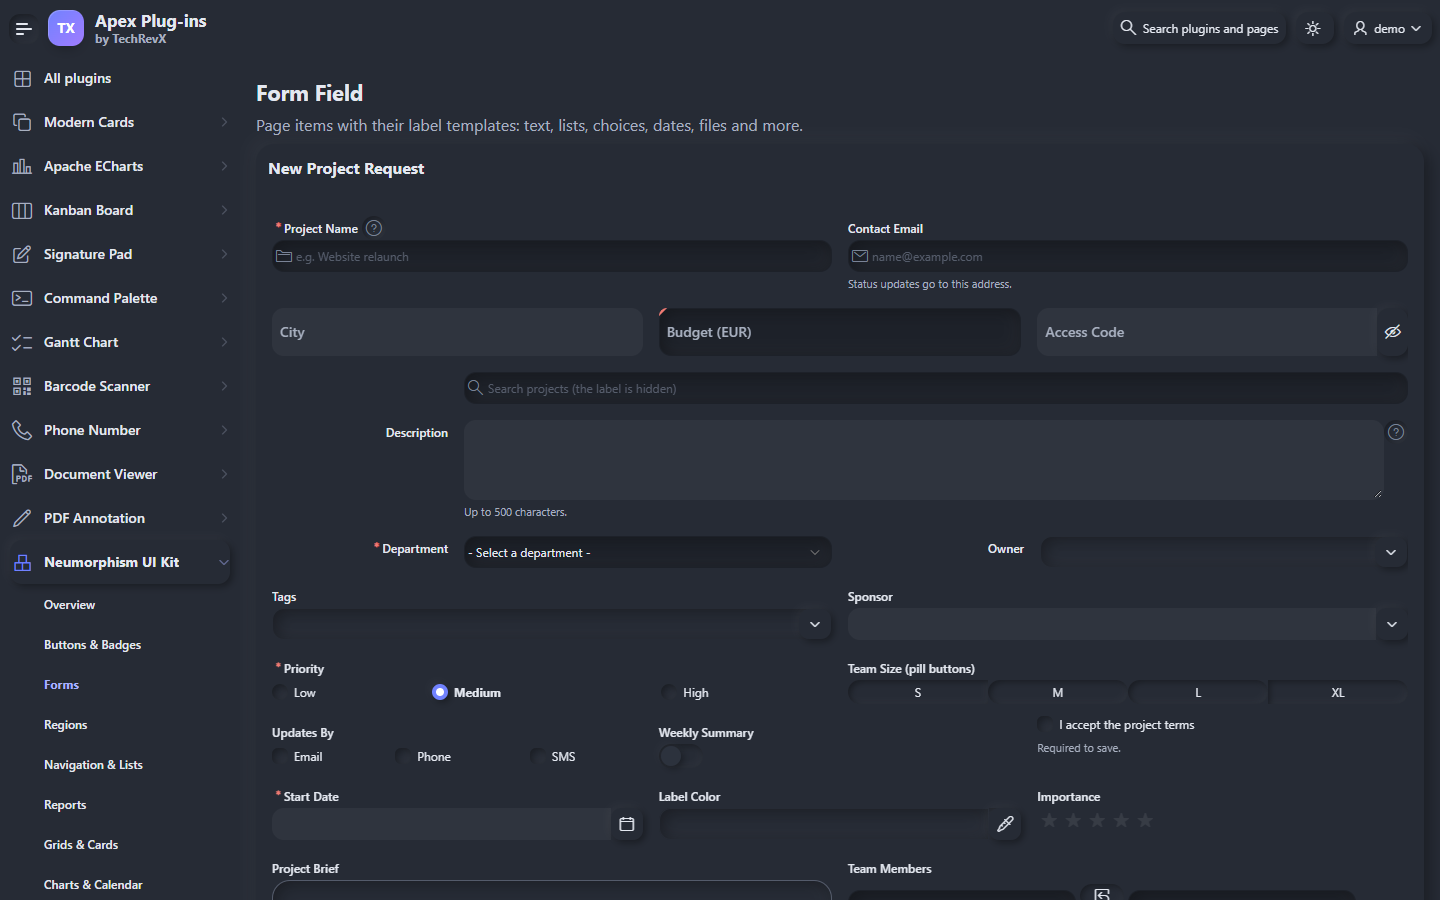
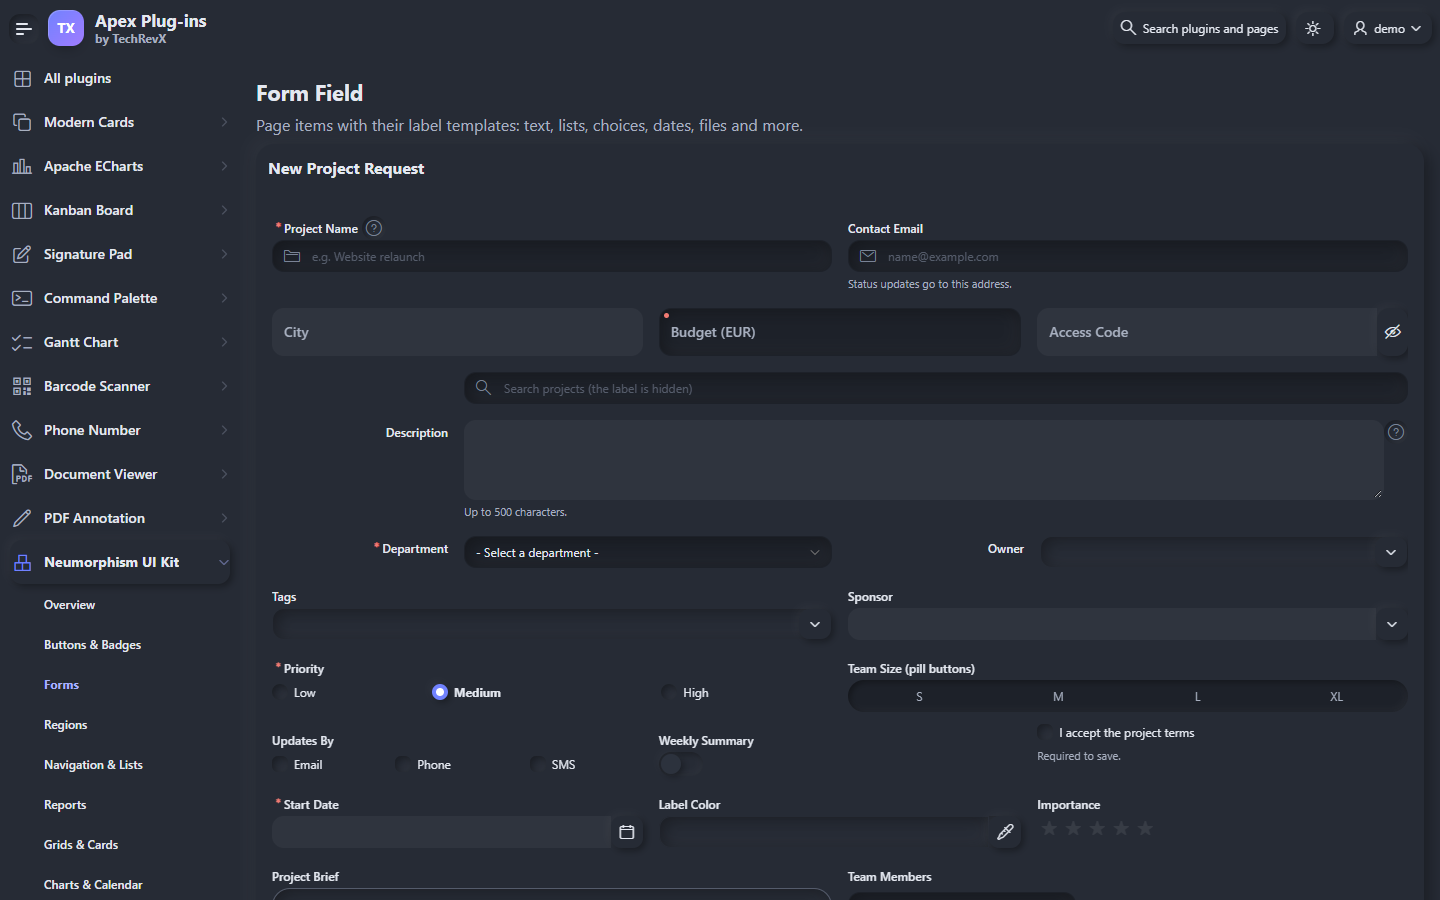
1.1.0: soft neutral white palette, softer grids, readable highlights

diff --git a/neumorphism.css b/neumorphism.css
@@ -1,5 +1,5 @@
 /*!
- * Neumorphism UI Kit for Oracle APEX Universal Theme 1.0.11 (built and tested with APEX 26.2, theme style Iris)
+ * Neumorphism UI Kit for Oracle APEX Universal Theme 1.1.0 (built and tested with APEX 26.2, theme style Iris)
  * TechRevX, MIT License - https://github.com/aamirkhanz/apex-neumorphism-ui-kit
  *
  * Soft UI: surfaces share the page color and stand out by a light highlight top left and a soft shadow bottom right
@@ -26,14 +26,14 @@
 :root,
 html.nm-light {
   color-scheme: light;
-  --nm-bg: #e3e8ef;                 /* page and surfaces */
-  --nm-well: #dde3eb;               /* pressed-in fields: a touch darker, so they read as fields */
-  --nm-surface-2: #eaeef4;          /* popups, menus, dialogs: a step lighter */
-  --nm-text: #283041;
-  --nm-text-2: #566176;
-  --nm-text-3: #7d8799;
-  --nm-line: rgba(40, 48, 65, .1);
-  --nm-hover: rgba(40, 48, 65, .045);
+  --nm-bg: #e3e3e3;                 /* page and surfaces: a soft, neutral white */
+  --nm-well: #dcdcdc;               /* pressed-in fields: a touch darker, so they read as fields */
+  --nm-surface-2: #e9e9e9;          /* popups, menus, dialogs: a step lighter, never pure white */
+  --nm-text: #2b2d31;
+  --nm-text-2: #5a5d63;
+  --nm-text-3: #83868c;
+  --nm-line: rgba(0, 0, 0, .08);
+  --nm-hover: rgba(0, 0, 0, .04);
 
   --nm-accent: #5468ee;
   --nm-accent-2: #8058f2;           /* end of the accent gradient */
@@ -49,8 +49,8 @@ html.nm-light {
   --nm-info: #2a6fc0;     --nm-info-tint: rgba(42, 111, 192, .12);
 
   /* depth: the two shadow colors and the distance */
-  --nm-shadow-light: rgba(255, 255, 255, .75);
-  --nm-shadow-dark: rgba(155, 168, 190, .4);
+  --nm-shadow-light: rgba(255, 255, 255, .7);
+  --nm-shadow-dark: rgba(160, 160, 160, .45);
   --nm-depth: 5px;
   --nm-blur: calc(var(--nm-depth) * 3);
 
@@ -66,7 +66,7 @@ html.nm-light {
               inset calc(var(--nm-depth) * -.6) calc(var(--nm-depth) * -.6) var(--nm-blur) var(--nm-shadow-light);
   --nm-inset-sm: inset 2px 2px 6px var(--nm-shadow-dark), inset -2px -2px 6px var(--nm-shadow-light);
   /* things that float above the page (dialogs, menus, popups): a soft drop shadow, no highlight halo */
-  --nm-float: 0 16px 40px -14px rgba(30, 40, 60, .2), 0 2px 8px -2px rgba(30, 40, 60, .07);
+  --nm-float: 0 16px 40px -14px rgba(0, 0, 0, .18), 0 2px 8px -2px rgba(0, 0, 0, .06);
   --nm-accent-shadow: 0 6px 16px -8px color-mix(in srgb, var(--nm-accent) 55%, transparent), inset 1px 1px 0 rgba(255, 255, 255, .2);
   --nm-focus: 0 0 0 3px color-mix(in srgb, var(--nm-accent) 38%, transparent);
 
@@ -316,9 +316,9 @@ html.nm-dark {
   --a-switch-toggle-background-color: var(--nm-surface-2);
   --a-switch-toggle-hover-background-color: var(--nm-surface-2);
   --a-switch-toggle-active-background-color: var(--nm-surface-2);
-  --a-switch-toggle-checked-background-color: #fff;
-  --a-switch-toggle-checked-hover-background-color: #fff;
-  --a-switch-toggle-checked-active-background-color: #fff;
+  --a-switch-toggle-checked-background-color: #f2f2f2;
+  --a-switch-toggle-checked-hover-background-color: #f2f2f2;
+  --a-switch-toggle-checked-active-background-color: #f2f2f2;
   --a-switch-toggle-border-color: transparent;
   --a-switch-toggle-shadow: var(--nm-raised-sm);
   --a-chip-border-color: transparent;
@@ -900,6 +900,13 @@ body { background: var(--nm-bg); color: var(--nm-text); }
 .ck.ck-editor__editable.ck-editor__editable_inline, .ck.ck-editor__main > .ck-editor__editable {
   background-color: var(--nm-well) !important;
 }
+/* fields the browser filled in (saved user names and passwords): keep the soft well instead of the browser's white-blue */
+input:-webkit-autofill, input:-webkit-autofill:hover, input:-webkit-autofill:focus, textarea:-webkit-autofill, select:-webkit-autofill {
+  -webkit-text-fill-color: var(--nm-text) !important;
+  caret-color: var(--nm-text);
+  box-shadow: var(--nm-inset), inset 0 0 0 1000px var(--nm-well) !important;
+  transition: background-color 9999s 0s;
+}
 /* number fields: no browser spinner inside the soft well (the arrow keys still change the value) */
 input[type="number"] { -moz-appearance: textfield; appearance: textfield; }
 input[type="number"]::-webkit-inner-spin-button,
@@ -1025,7 +1032,7 @@ select[multiple], select[size]:not([size="1"]), textarea, .t-Region-body, .a-GV-
 .a-Switch .a-Switch-toggle { border: 0; background-color: var(--nm-bg); box-shadow: var(--nm-inset-sm); }
 .a-Switch .a-Switch-toggle::before { background-color: var(--nm-surface-2); box-shadow: var(--nm-raised-sm); }
 .a-Switch input:checked + .a-Switch-toggle { background: var(--nm-accent-fill); box-shadow: inset 1px 1px 4px rgba(0, 0, 0, .2); }
-.a-Switch input:checked + .a-Switch-toggle::before { background-color: #fff; }
+.a-Switch input:checked + .a-Switch-toggle::before { background-color: #f2f2f2; }
 .a-Switch input:focus-visible + .a-Switch-toggle { box-shadow: var(--nm-inset-sm), var(--nm-focus); }
 /* select lists: browsers with customizable selects (Chrome and Edge 135+) draw the open list in the kit's style too;
    others keep their native list */
@@ -1320,11 +1327,13 @@ a.t-MediaList-itemWrap:active { box-shadow: var(--nm-inset-sm); }
 .t-AVPList--rightAligned .t-AVPList-label, .t-AVPList-item { border-color: var(--nm-line); }
 .t-ContextualInfo { border: 0; }
 .t-ContextualInfo-item {
+  padding: 6px 12px;
   border: 0;
   border-radius: var(--nm-radius-sm);
   background: var(--nm-bg);
   box-shadow: var(--nm-raised-sm);
 }
+.t-ContextualInfo { padding: 4px; }
 .t-ContextualInfo-label { color: var(--nm-text-2); }
 .t-ContextualInfo-value { color: var(--nm-text); }
 
@@ -1342,6 +1351,9 @@ a.t-MediaList-itemWrap:active { box-shadow: var(--nm-inset-sm); }
 /* comments */
 .t-Comments-item { border: 0; }
 .t-Comments-body {
+  box-sizing: border-box;
+  max-width: calc(100% - 8px);
+  padding: 8px 14px;
   border: 0;
   border-radius: var(--nm-radius);
   background: var(--nm-bg);
@@ -1411,8 +1423,9 @@ a.t-MediaList-itemWrap:active { box-shadow: var(--nm-inset-sm); }
 .t-Badge {
   border: 0;
   border-radius: var(--nm-radius-pill);
-  box-shadow: var(--nm-inset-sm);
 }
+/* neutral badges sink in; colored ones stay flat and crisp (an inner shadow smears the color) */
+.t-Badge--subtle, .t-Badge:not([class*="u-"]):not([class*="t-Badge--"]) { box-shadow: var(--nm-inset-sm); }
 .t-Badge--subtle, .t-Badge:not([class*="u-"]):not([class*="t-Badge--"]) { background: var(--nm-bg); color: var(--nm-text); }
 
 /* metric card */
@@ -1441,6 +1454,10 @@ a.t-MediaList-itemWrap:active { box-shadow: var(--nm-inset-sm); }
 .a-IRR-header, .a-IRR-table th { border-color: var(--nm-line); background: var(--nm-hover); color: var(--nm-text); }
 .a-IRR-table td { border-color: var(--nm-line); color: var(--nm-text); }
 .a-IRR-table tr:hover td { background: var(--nm-hover); }
+/* highlighted rows and cells (saved report highlights set their own light background): dark text stays readable in dark mode */
+/* (APEX writes them as classes rule_<id> with only a background; a text color set in the highlight still wins) */
+:where(.a-IRR-table) :is(tr[class*="rule_"] td, td[class*="rule_"]) { color: #1f2024 !important; }
+:where(.a-IRR-table) :is(tr[class*="rule_"] td, td[class*="rule_"]) a { color: #1f2024; }
 .a-IRR-controls, .a-IRR-controlsContainer { border: 0; background: transparent; }
 .a-IRR-controls-cell { border-radius: var(--nm-radius-sm); }
 .a-IRR-pagination-label { color: var(--nm-text-2); }
@@ -1464,6 +1481,24 @@ a.t-MediaList-itemWrap:active { box-shadow: var(--nm-inset-sm); }
   box-shadow: var(--nm-inset);
 }
 .a-Toolbar-selectList { border: 0; border-radius: 10px; background-color: var(--nm-bg); box-shadow: var(--nm-inset-sm); }
+/* toolbar search (columns button, field, Go): one pressed-in pill with flat contents */
+.a-Toolbar-group--search {
+  padding: 2px 4px;
+  border-radius: var(--nm-radius-pill);
+  background: var(--nm-well);
+  box-shadow: var(--nm-inset-sm);
+}
+.a-Toolbar-group--search .a-Button, .a-Toolbar-group--search .a-Toolbar-input {
+  border: 0 !important;
+  background: transparent !important;
+  box-shadow: none !important;
+}
+.a-Toolbar-group--search .a-Button:hover { color: var(--nm-accent-text); }
+/* grids: no vertical lines and a light header with one soft line below it */
+.a-GV-cell, .a-GV-header, .a-IRR-table td, .a-IRR-table th { border-inline-color: transparent !important; }
+.a-GV-hdr, .a-GV-hdr .a-GV-header, .a-IRR-table th, .a-IRR-header { background: transparent !important; }
+.a-GV-hdr .a-GV-header, .a-IRR-table th { color: var(--nm-text-2); font-weight: 700; }
+.a-GV-hdr .a-GV-header, .a-IRR-table th { border-block-end-color: var(--nm-line) !important; }
 .a-Toolbar-pillButton, .a-Toolbar-group--pill > .a-Button { box-shadow: var(--nm-raised-sm); }
 
 /* cards region (native) */

diff --git a/neumorphism.js b/neumorphism.js
@@ -1,5 +1,5 @@
 /*
- * Neumorphism UI Kit for Oracle APEX Universal Theme 1.0.11: light and dark mode
+ * Neumorphism UI Kit for Oracle APEX Universal Theme 1.1.0: light and dark mode
  * TechRevX, MIT License - https://github.com/aamirkhanz/apex-neumorphism-ui-kit
  *
  * The look is in neumorphism.css; this file only switches between light and dark. Without it the kit stays light,

diff --git a/CHANGELOG.md b/CHANGELOG.md
@@ -1,5 +1,13 @@
 # Changelog
 
+## 1.1.0 (2026-10-30)
+
+- Light mode is built on a soft, neutral white (#E3E3E3) instead of a blue-grey; popups are a step lighter (#E9E9E9), fields #DCDCDC, and text, lines and shadows are neutral grey. The accent color is unchanged.
+- Fields the browser fills in (saved user names and passwords) keep the soft well instead of the browser's white-blue.
+- Interactive Grid and Interactive Report: no vertical lines, a light header with one soft line, and the grid's search is one pressed-in pill.
+- Interactive Report highlights stay readable in dark mode.
+- Colored badges are crisp (no inner shadow); Contextual Info items have padding; Comments fit inside their region.
+
 ## 1.0.11 (2026-10-30)
 
 - Navigation Bar lists in the page body: raised buttons like in the header, and the bar wraps instead of cutting off items in narrow regions.

diff --git a/README.md b/README.md
@@ -9,7 +9,7 @@ A soft, tactile look for Oracle APEX Universal Theme: surfaces share the page co
 | | |
 |---|---|
 | **Files** | `neumorphism.css` (the look), `neumorphism.js` (optional light/dark switch) |
-| **Version** | 1.0.11 |
+| **Version** | 1.1.0 |
 | **Built for** | Oracle APEX 26.2, Universal Theme with the Iris theme style (tested); other styles are not tested yet |
 | **License** | MIT |
 
